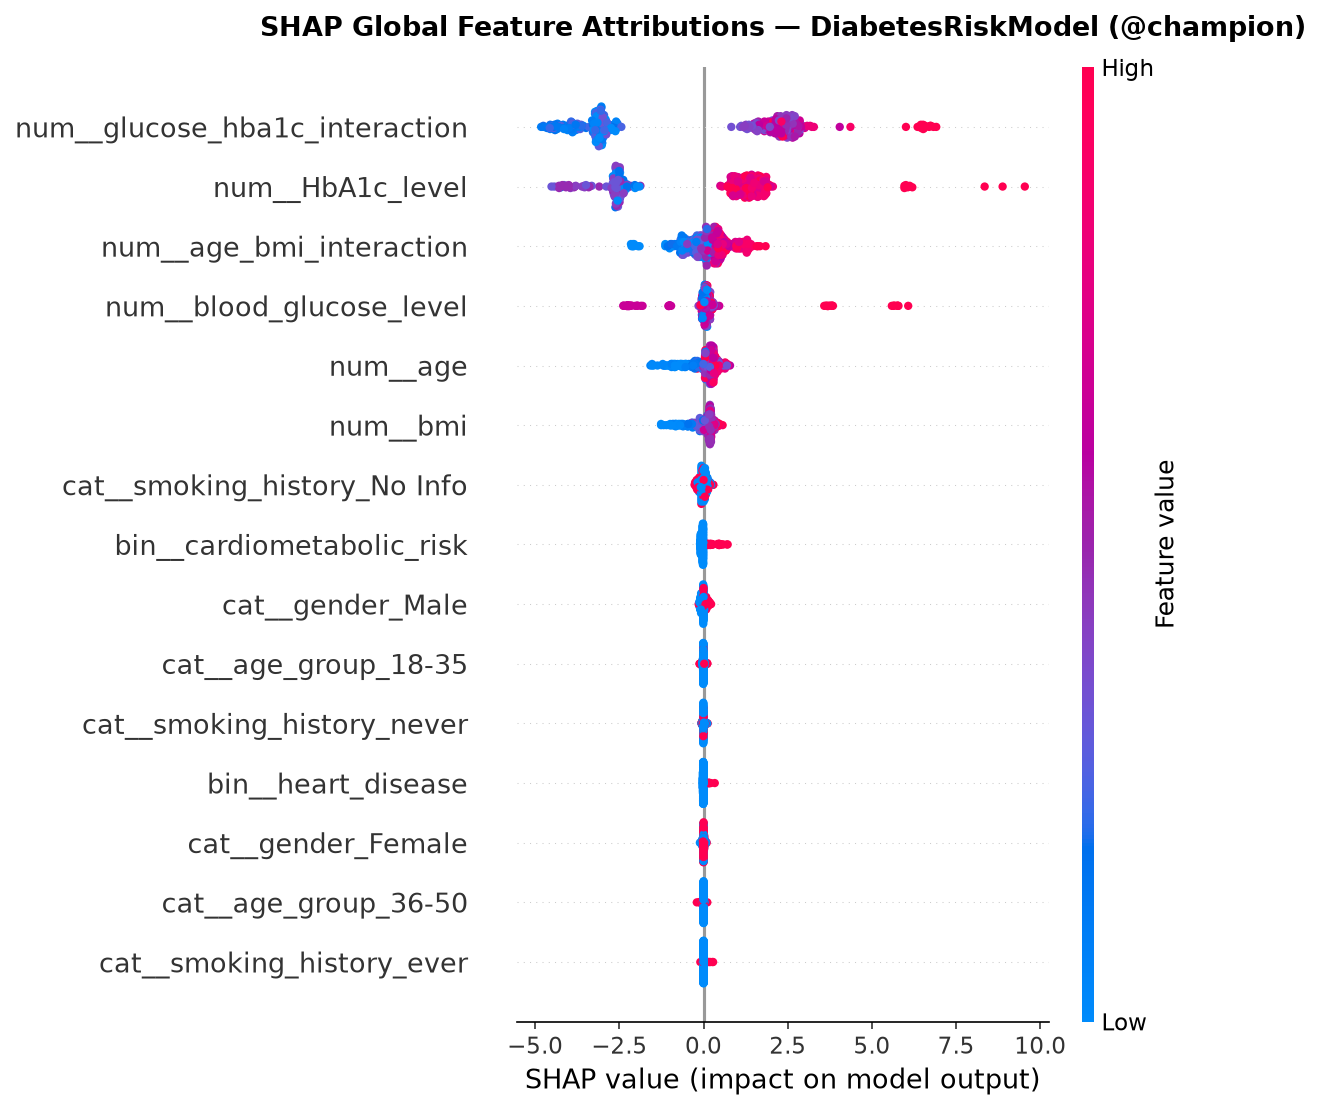
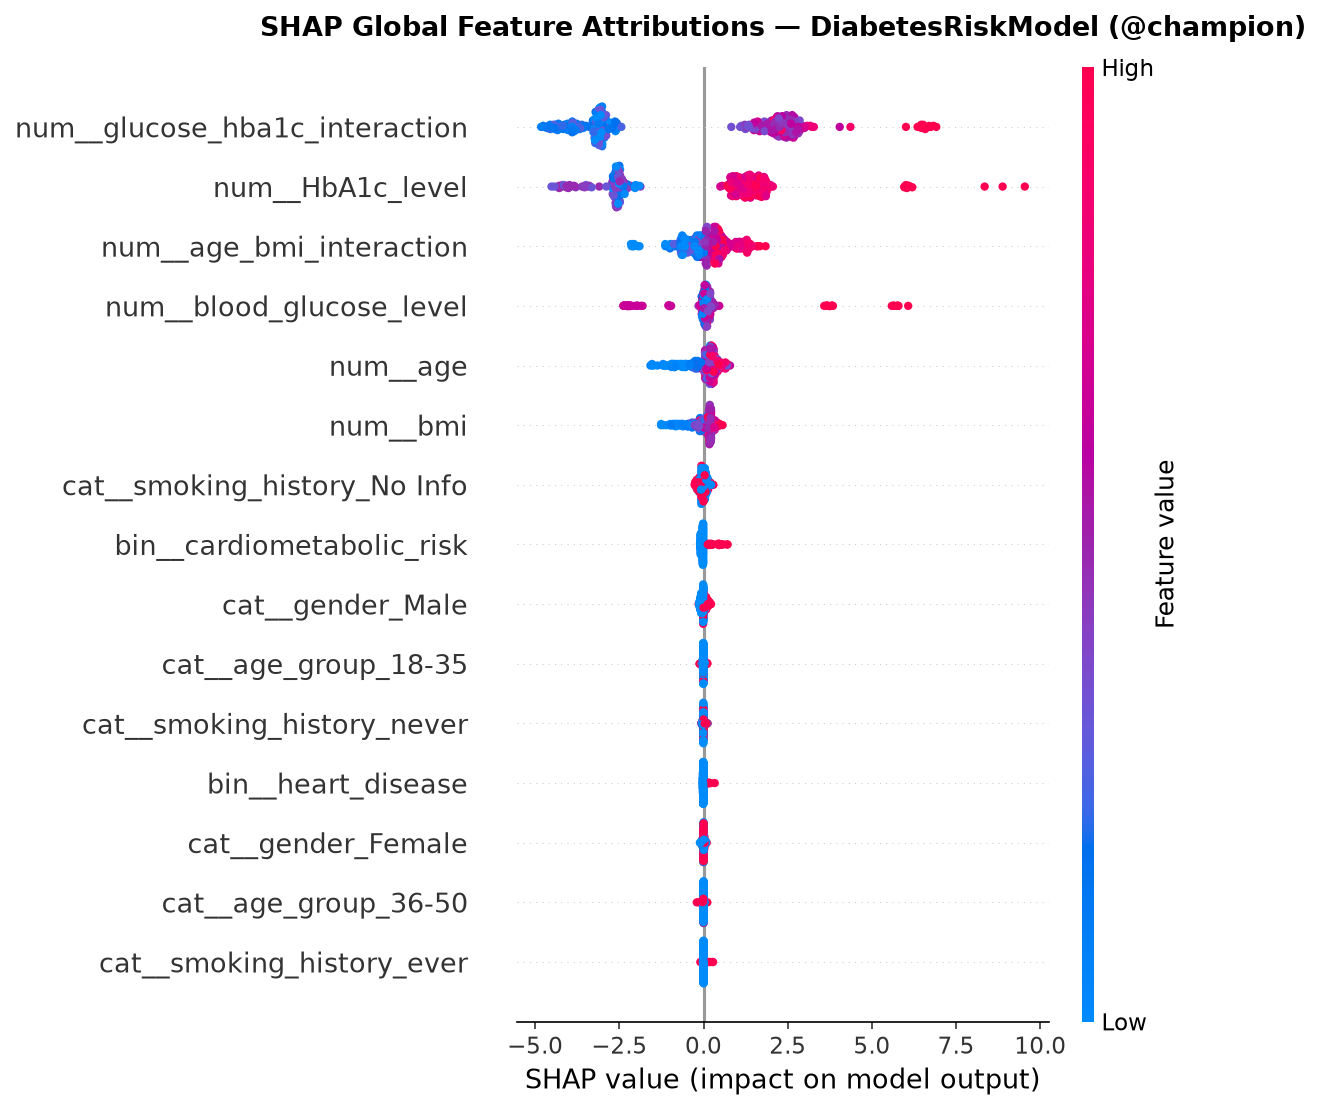
fix(api-test): initialize database tables in test_api fixture

diff --git a/app/db/session.py b/app/db/session.py
@@ -6,11 +6,10 @@ sqlite:///./data/diabetes_app.db
 
 import logging
 import os
+from collections.abc import Generator
 from pathlib import Path
-from typing import Generator
 
 from sqlalchemy import create_engine
-from sqlalchemy.exc import OperationalError
 from sqlalchemy.orm import Session, sessionmaker
 
 from app.db.models import Base
@@ -46,7 +45,7 @@ def create_db_engine(database_url: str):
     try:
         engine = create_engine(database_url, connect_args=connect_args)
         # Verify connection
-        with engine.connect() as conn:
+        with engine.connect():
             pass
         logger.info("Successfully connected to primary database at: %s", database_url)
         return engine
@@ -60,7 +59,7 @@ def create_db_engine(database_url: str):
             )
             _ensure_sqlite_directory(DEFAULT_SQLITE_URL)
             return create_engine(DEFAULT_SQLITE_URL, connect_args={"check_same_thread": False})
-        raise exc
+        raise
 
 
 engine = create_db_engine(ENV_DATABASE_URL)
@@ -70,6 +69,7 @@ SessionLocal = sessionmaker(autocommit=False, autoflush=False, bind=engine)
 def init_db() -> None:
     """Initialize database tables from ORM metadata."""
     logger.info("Initializing database tables...")
+    _ensure_sqlite_directory(str(engine.url))
     Base.metadata.create_all(bind=engine)
     logger.info("Database tables initialized successfully.")
 

diff --git a/tests/test_api.py b/tests/test_api.py
@@ -12,8 +12,17 @@ Tests:
 import pytest
 from fastapi.testclient import TestClient
 
+from app.db.session import init_db
 from app.main import app
 from src.features.counterfactual_dice import MANDATORY_DISCLAIMER
+
+
+@pytest.fixture(scope="session", autouse=True)
+def setup_test_database():
+    """Ensure database tables exist before API tests run."""
+    init_db()
+    yield
+
 
 client = TestClient(app)
 
